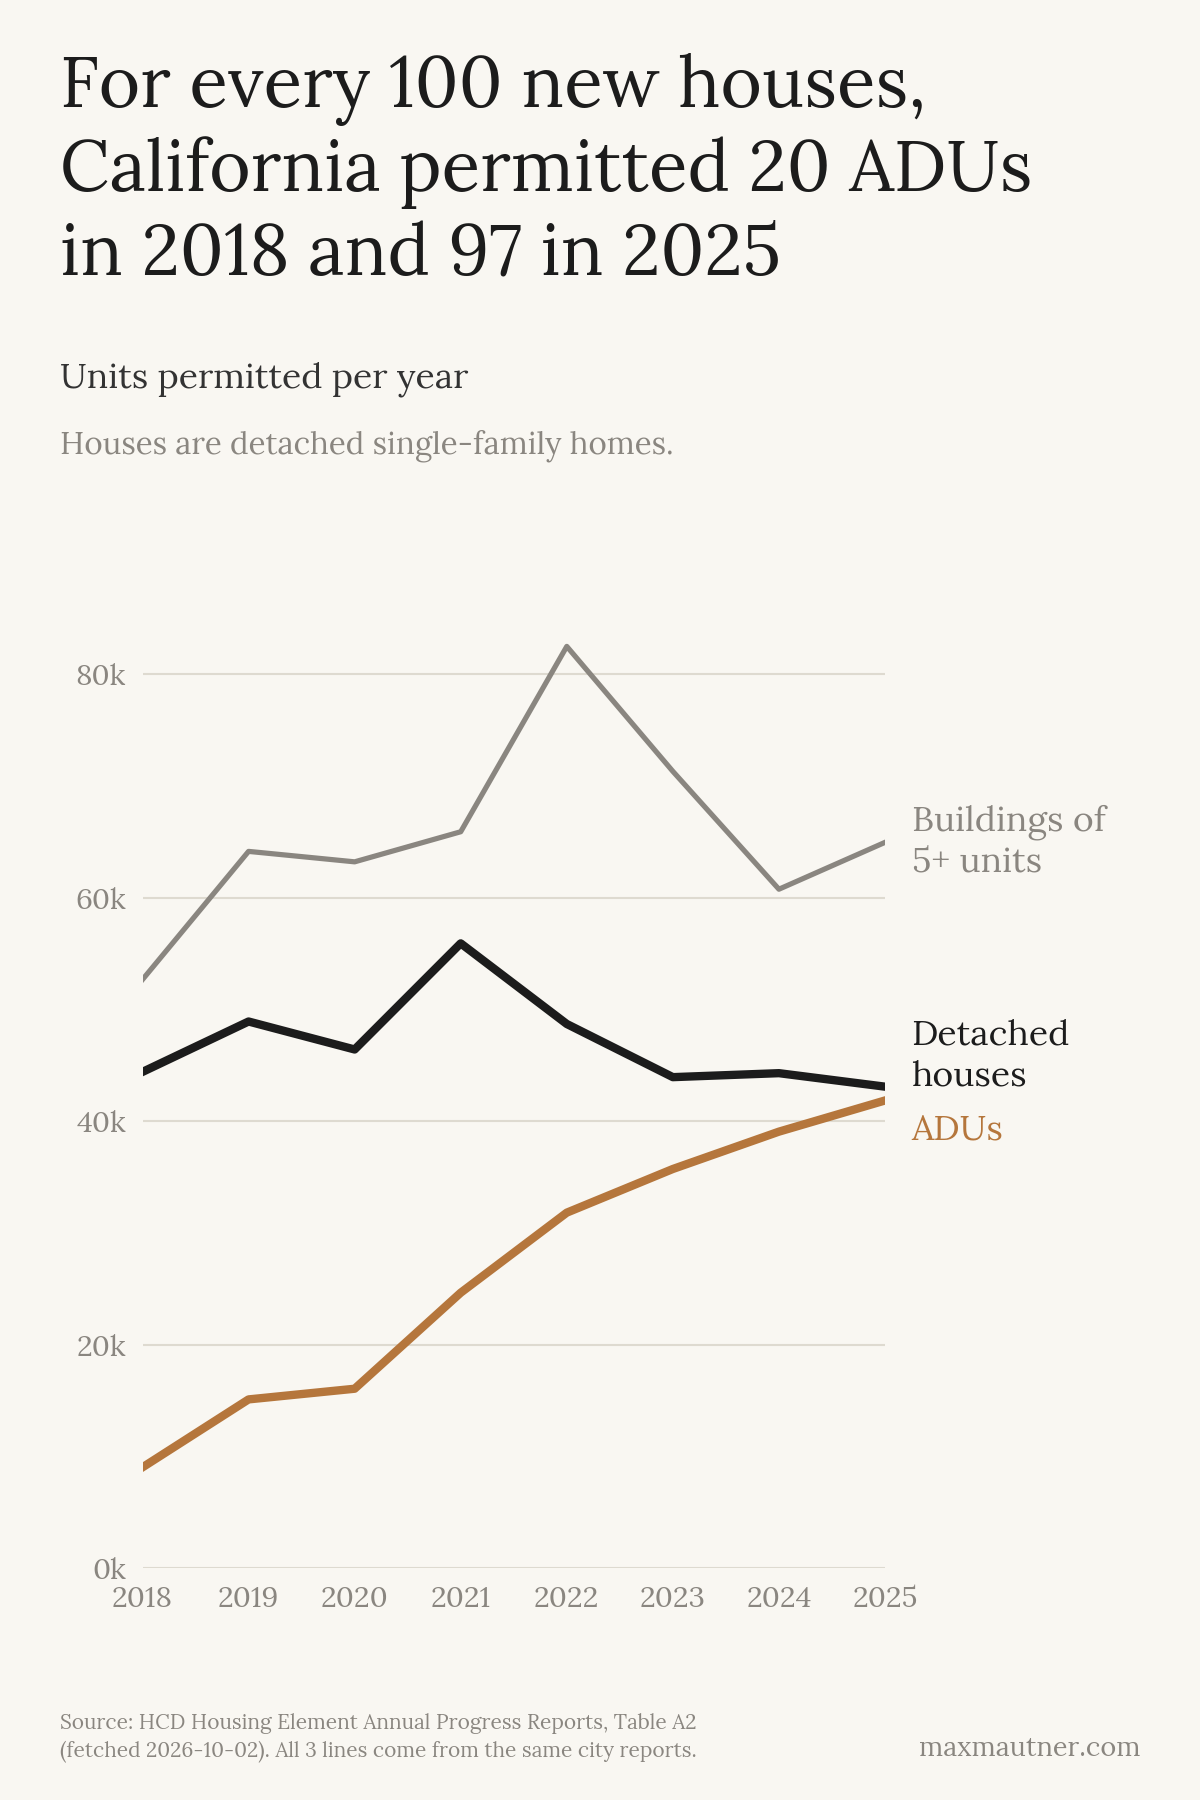
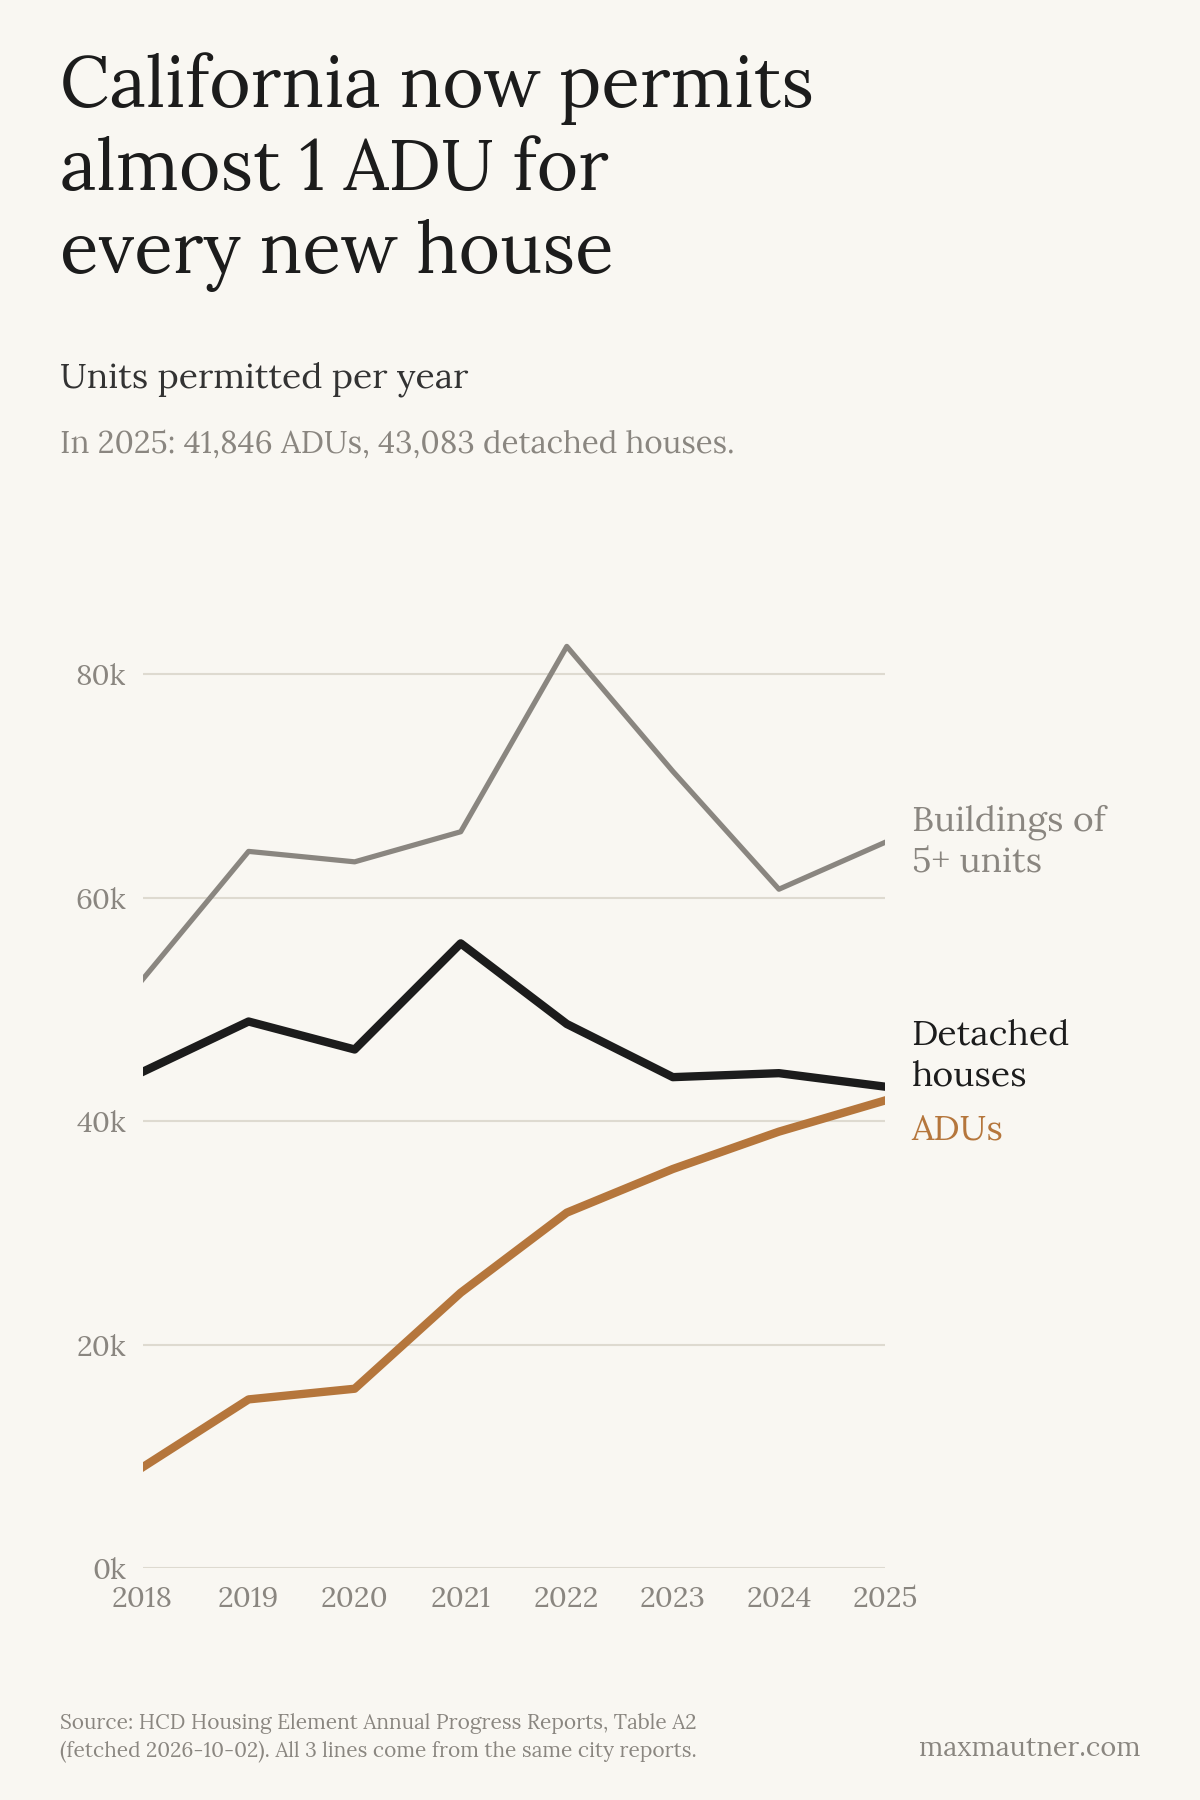
tweak chart title text

Changed region(s): [[0.0308, 0.0311, 0.8633, 0.1556], [0.1542, 0.2178, 0.555, 0.2489], [0.0617, 0.2178, 0.1233, 0.2489]]

diff --git a/2026-10-02-backyard-homes/charts.py b/2026-10-02-backyard-homes/charts.py
@@ -24,17 +24,11 @@ def adu_vs_houses(fmt, name, adu, sfd, mf5, fetched):
     a, h, m = ([d[y] for y in ys] for d in (adu, sfd, mf5))
     last, r = ys[-1], adu[ys[-1]] / sfd[ys[-1]]
     if r >= 1:
-        title = "California now permits\nmore backyard homes\nthan houses"
+        title = "California now permits\nmore ADUs than\nnew houses"
     else:
-        assert r >= 0.9, f"Title says 'nearly as many' but ADUs/houses = {r:.2f}"
-        title = "California now permits\nnearly as many backyard\nhomes as houses"
-    if fmt == "blog":
-        # In the post, the headline sits right above this chart, so the chart says something else.
-        title = (f"For every 100 new houses,\nCalifornia permitted {round(100 * a[0] / h[0])} ADUs\n"
-                 f"in {ys[0]} and {round(100 * r)} in {last}")
-        note = "Houses are detached single-family homes."
-    else:
-        note = f"In {last}: {a[-1]:,} ADUs, {h[-1]:,} detached houses."
+        assert r >= 0.9, f"Title says 'almost 1 ADU for every new house' but ADUs/houses = {r:.2f}"
+        title = "California now permits\nalmost 1 ADU for\nevery new house"
+    note = f"In {last}: {a[-1]:,} ADUs, {h[-1]:,} detached houses."
     p = Page(fmt, title, "Units permitted per year", note,
              f"Source: {SOURCES_APR}\n(fetched {fetched}). All 3 lines come from the same city reports.", WATERMARK)
     ax = plot_area(p, right=2.1)
@@ -81,7 +75,7 @@ def og_image(name, adu, sfd, mf5):
     ys = [y for y in YEARS if y in adu]
     a, h, m = ([d[y] for y in ys] for d in (adu, sfd, mf5))
     fig = plt.figure(figsize=(8, 4.2), dpi=DPI, facecolor=BG)
-    fig.text(0.05, 0.88, "California now permits\nnearly as many backyard\nhomes as houses",
+    fig.text(0.05, 0.88, "California now permits\nalmost 1 ADU for\nevery new house",
              fontsize=23, color=INK, va="top", linespacing=1.15)
     fig.text(0.05, 0.36, f"{a[-1]:,} ADUs vs. {h[-1]:,}\ndetached houses in {ys[-1]}",
              fontsize=15, color=COPPER, va="top", linespacing=1.3)

diff --git a/2026-10-02-backyard-homes/README.md b/2026-10-02-backyard-homes/README.md
@@ -1,7 +1,6 @@
-# California now permits nearly as many backyard homes as houses
+# 1 in 4 new California homes is in someone's backyard
 
-Code and data behind the charts in "California now permits nearly as many backyard homes as
-houses" (TK: post URL) on maxmautner.com.
+Code and data behind the charts in "1 in 4 new California homes is in someone's backyard" (TK: post URL) on maxmautner.com.
 
 The charts compare California's accessory dwelling unit (ADU) permits with permits for
 detached houses and for units in buildings of 5+ units, and show ADUs as a share of all units permitted. Both
